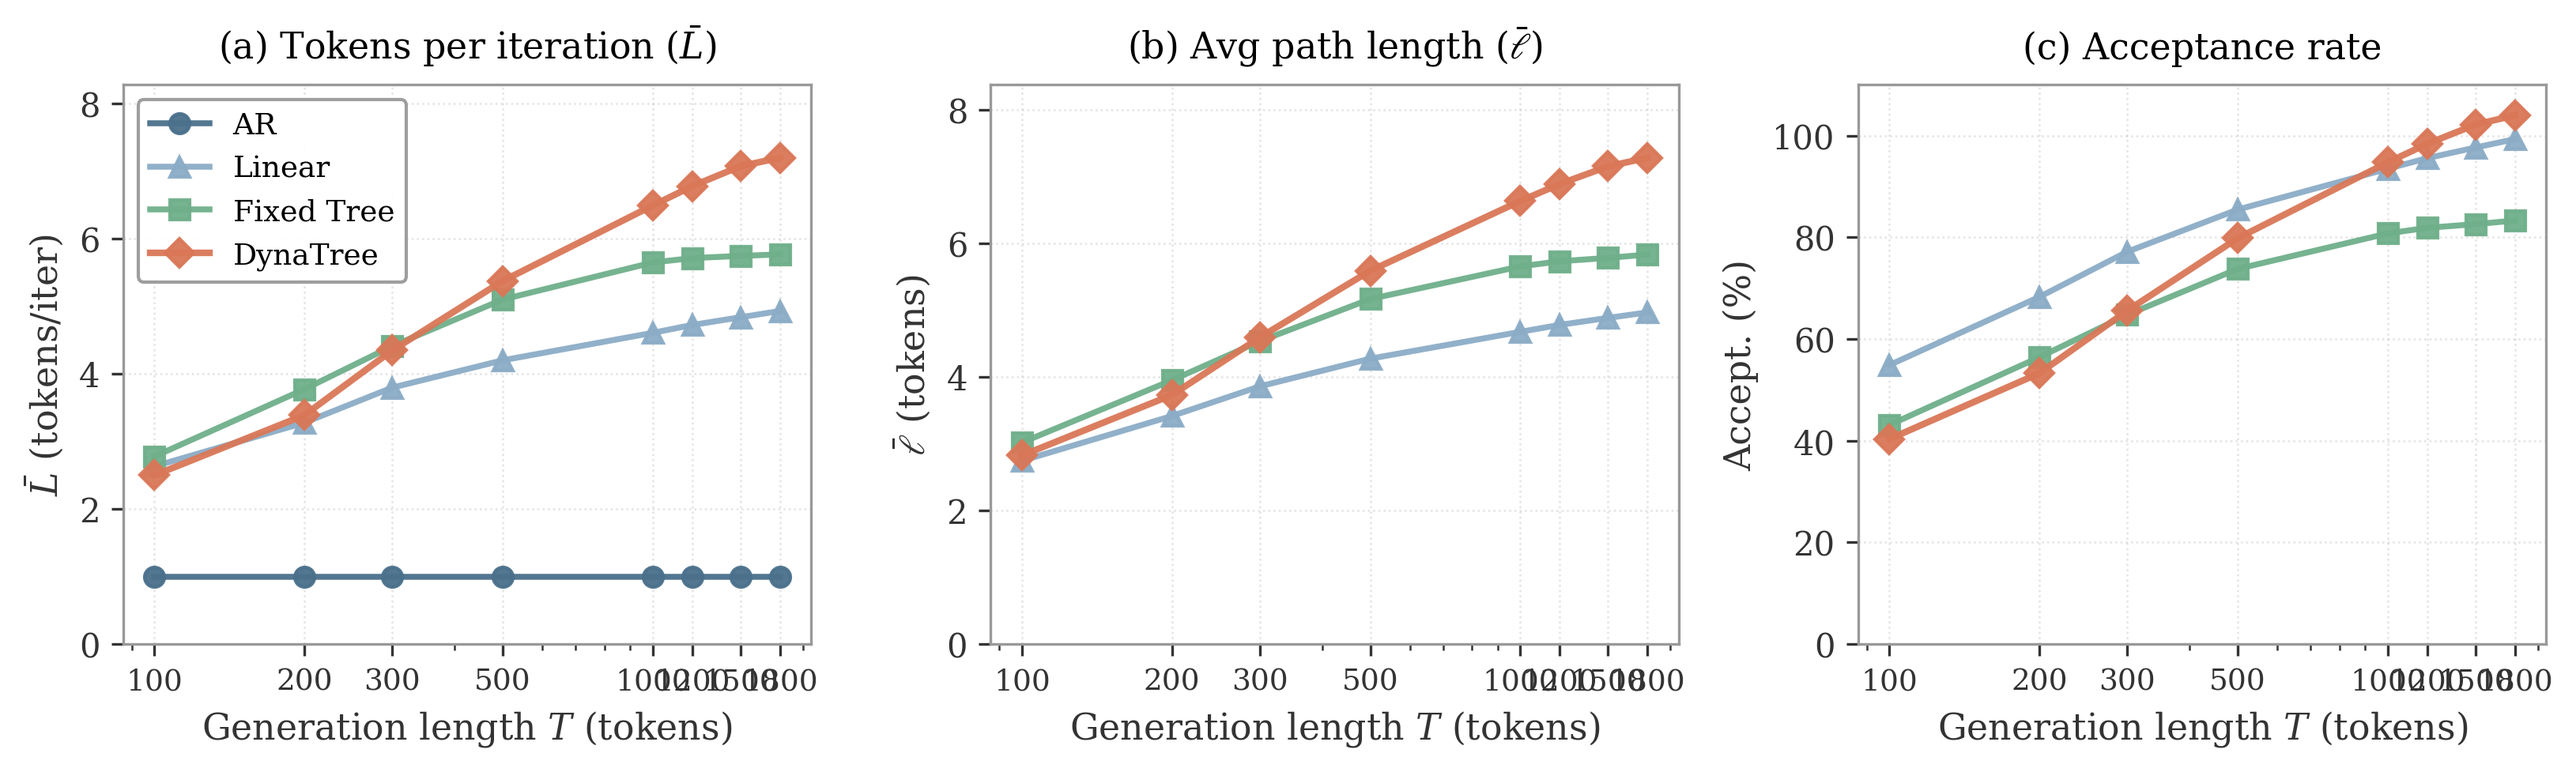
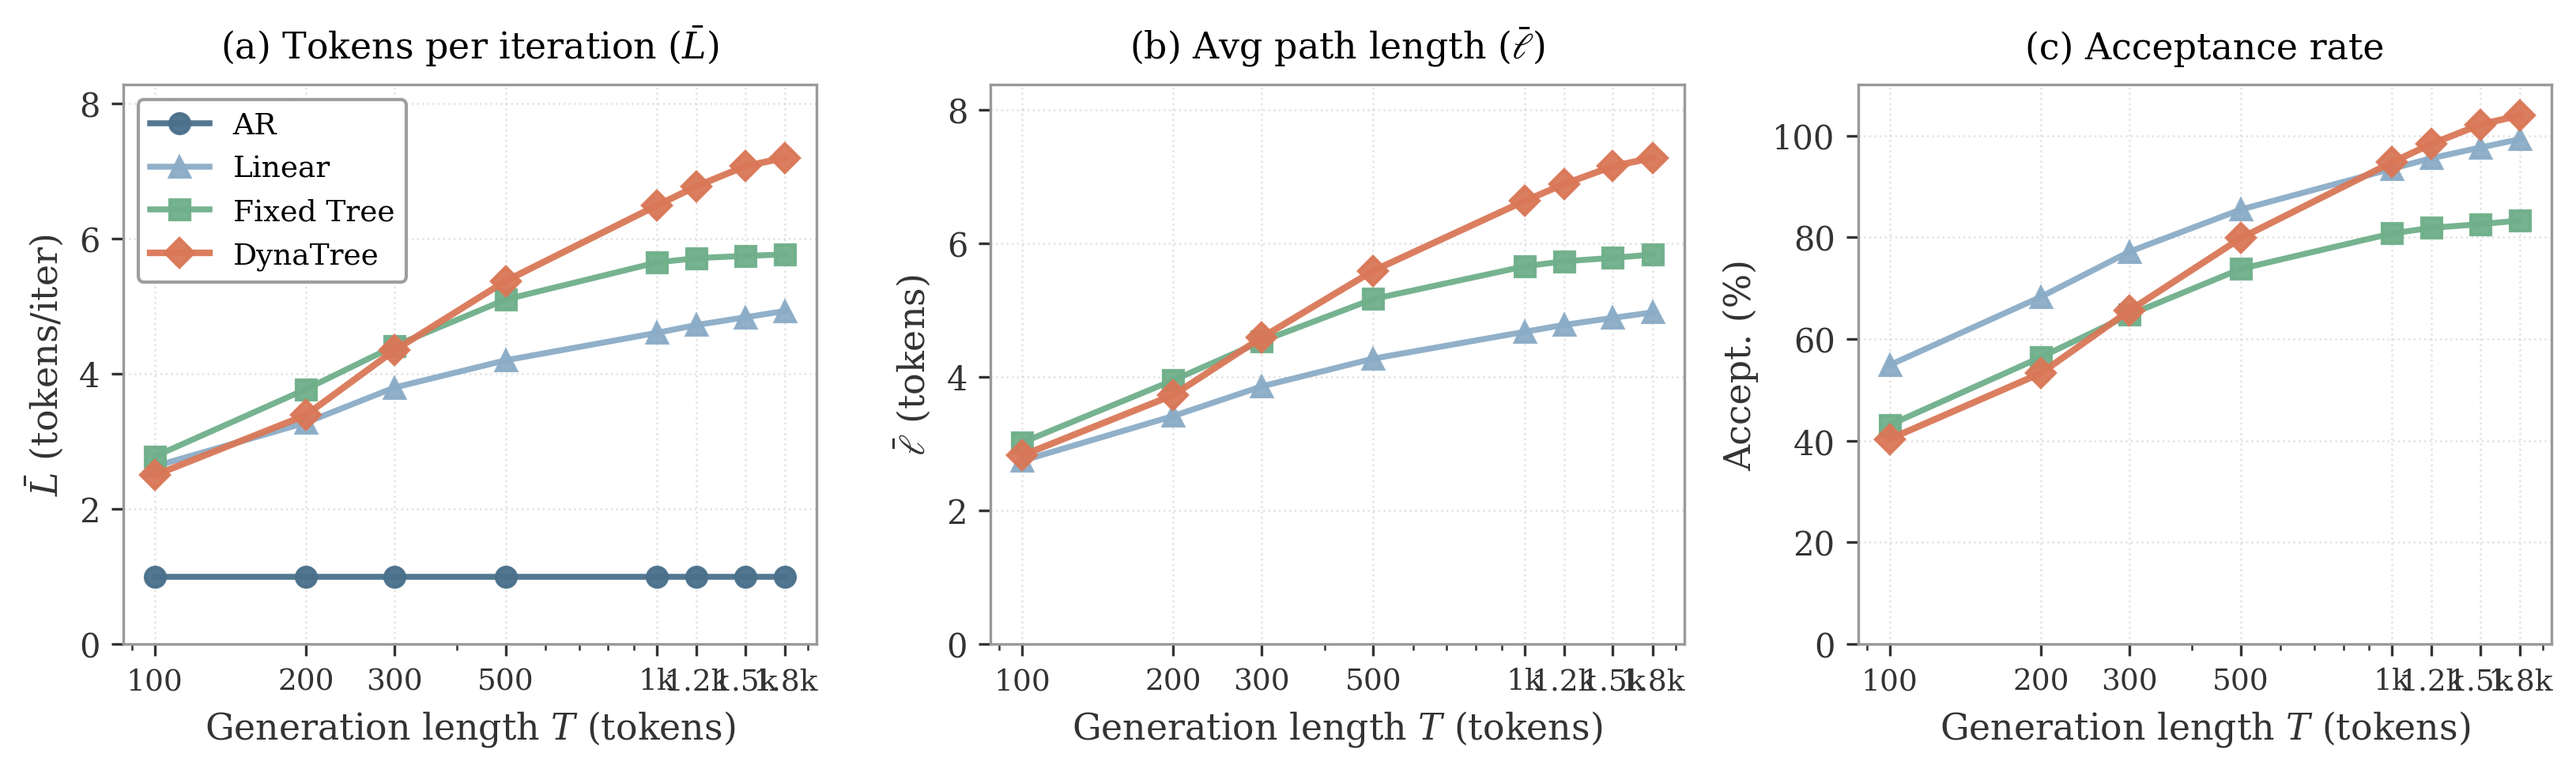
Fix length-scaling efficiency x-axis tick overlap

diff --git a/plot_length_scaling_efficiency.py b/plot_length_scaling_efficiency.py
@@ -76,6 +76,12 @@ def main() -> None:
             acc[k] = [np.nan for _ in lengths]
 
     fig, axes = plt.subplots(1, 3, figsize=(11.0, 3.4))
+    def fmt_T(t: int) -> str:
+        if t >= 1000:
+            v = t / 1000.0
+            return f"{v:g}k"
+        return str(t)
+    xticklabels = [fmt_T(t) for t in lengths]
 
     # (a) tokens/iter
     ax = axes[0]
@@ -95,7 +101,7 @@ def main() -> None:
     ax.set_ylabel(r"$\bar{L}$ (tokens/iter)", fontsize=11)
     ax.set_xscale("log")
     ax.set_xticks(lengths)
-    ax.set_xticklabels([str(x) for x in lengths], fontsize=9)
+    ax.set_xticklabels(xticklabels, fontsize=9)
     ax.grid(True, linestyle=":", alpha=0.35, linewidth=0.6)
     ax.legend(loc="upper left", frameon=True, framealpha=0.95, edgecolor="#999999", fontsize=9)
     ymax = max(max(v) for v in lbar.values()) * 1.15
@@ -118,7 +124,7 @@ def main() -> None:
     ax.set_ylabel(r"$\bar{\ell}$ (tokens)", fontsize=11)
     ax.set_xscale("log")
     ax.set_xticks(lengths)
-    ax.set_xticklabels([str(x) for x in lengths], fontsize=9)
+    ax.set_xticklabels(xticklabels, fontsize=9)
     ax.grid(True, linestyle=":", alpha=0.35, linewidth=0.6)
     # Avoid warnings from the AR masked series (all-NaN).
     ymax = np.nanmax([np.nanmax(v) for k, v in ellbar.items() if k != "Baseline (AR)"]) * 1.15
@@ -141,7 +147,7 @@ def main() -> None:
     ax.set_ylabel("Accept. (%)", fontsize=11)
     ax.set_xscale("log")
     ax.set_xticks(lengths)
-    ax.set_xticklabels([str(x) for x in lengths], fontsize=9)
+    ax.set_xticklabels(xticklabels, fontsize=9)
     ax.grid(True, linestyle=":", alpha=0.35, linewidth=0.6)
     # Avoid warnings from the AR masked series (all-NaN).
     ax.set_ylim(0, min(110, np.nanmax([np.nanmax(v) for k, v in acc.items() if k != "Baseline (AR)"]) * 1.10))
